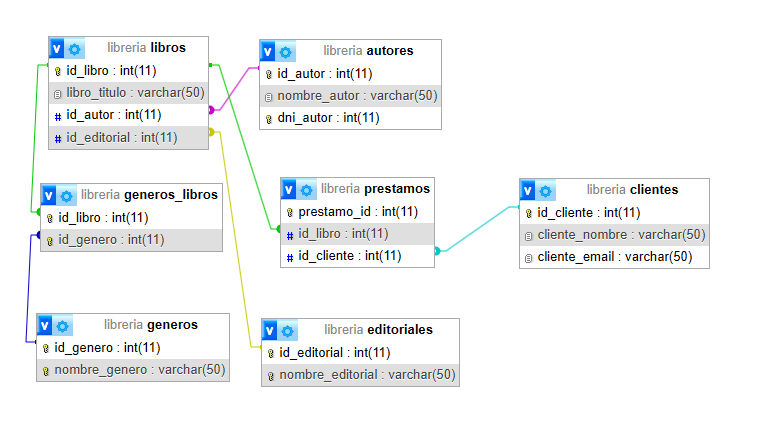
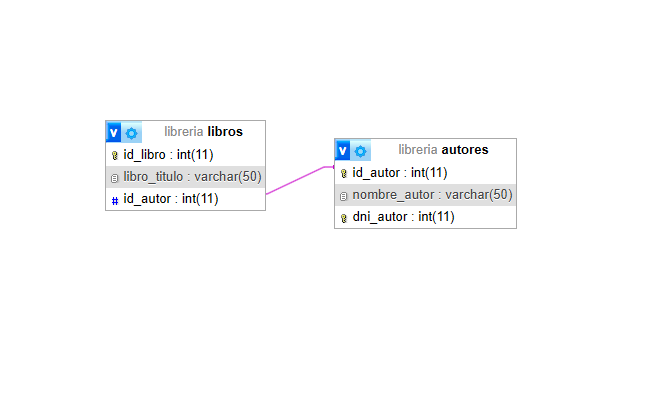
Esquema acortado

diff --git a/README.md b/README.md
@@ -24,6 +24,11 @@
     Un ejemplo de ellas, es que si se intenta borrar la editorial y esta está vinculada a un libro, se restringira. 
     En cambio, en el caso de los autores, se borraran ambos en cascada.
 
+    (Nueva version)
+    Se acortaron la cantidad de tablas.
+    Tablas de autores y libros.
+    Un autor no puede eliminarse si ya tiene un libro.
+
 # Diagrama
   ![Diagrama](<db.png>
 )
